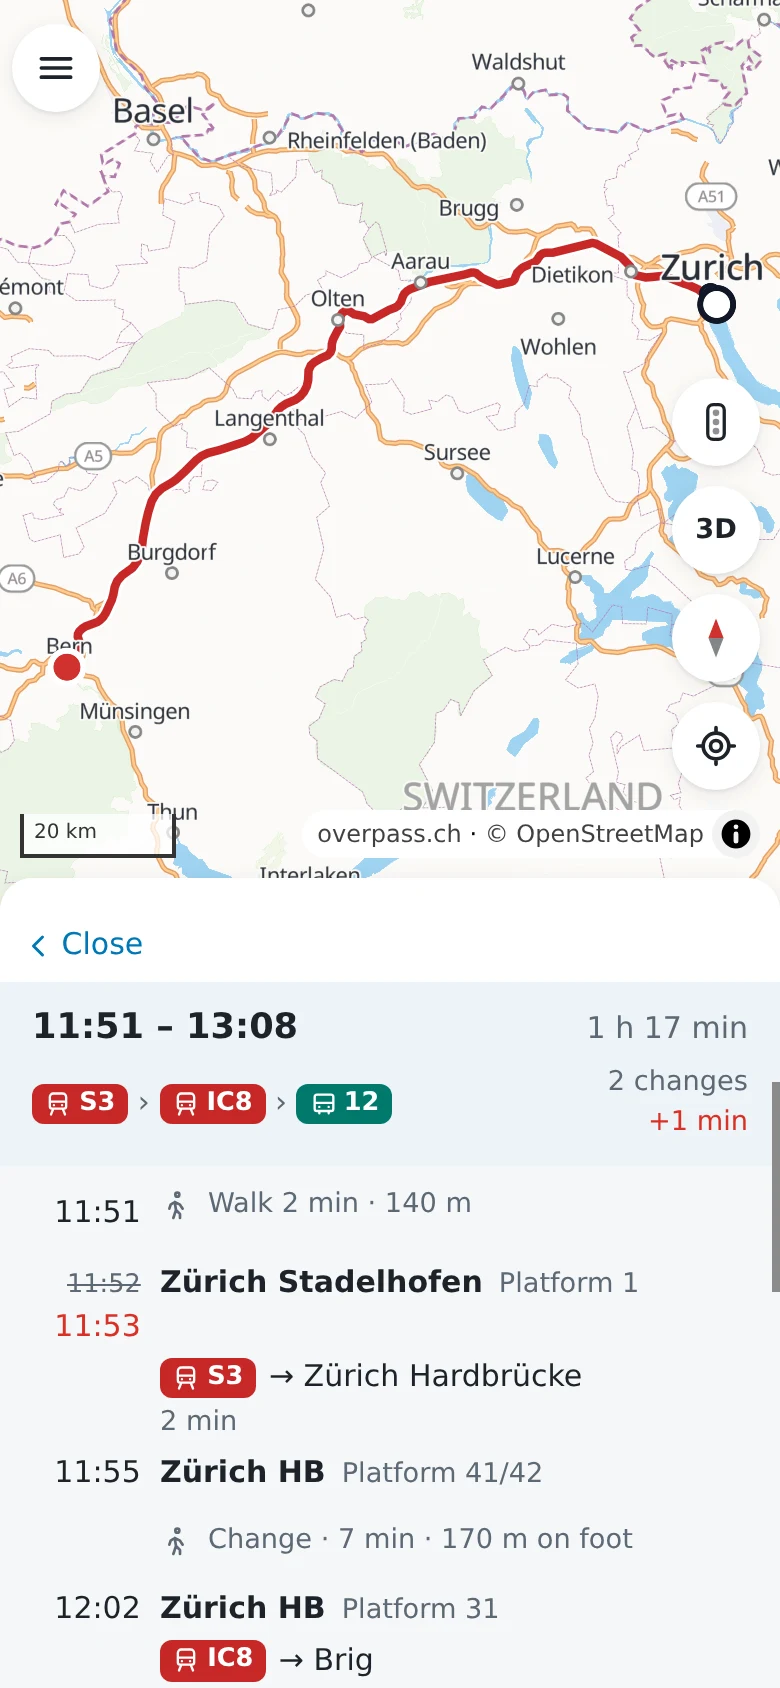
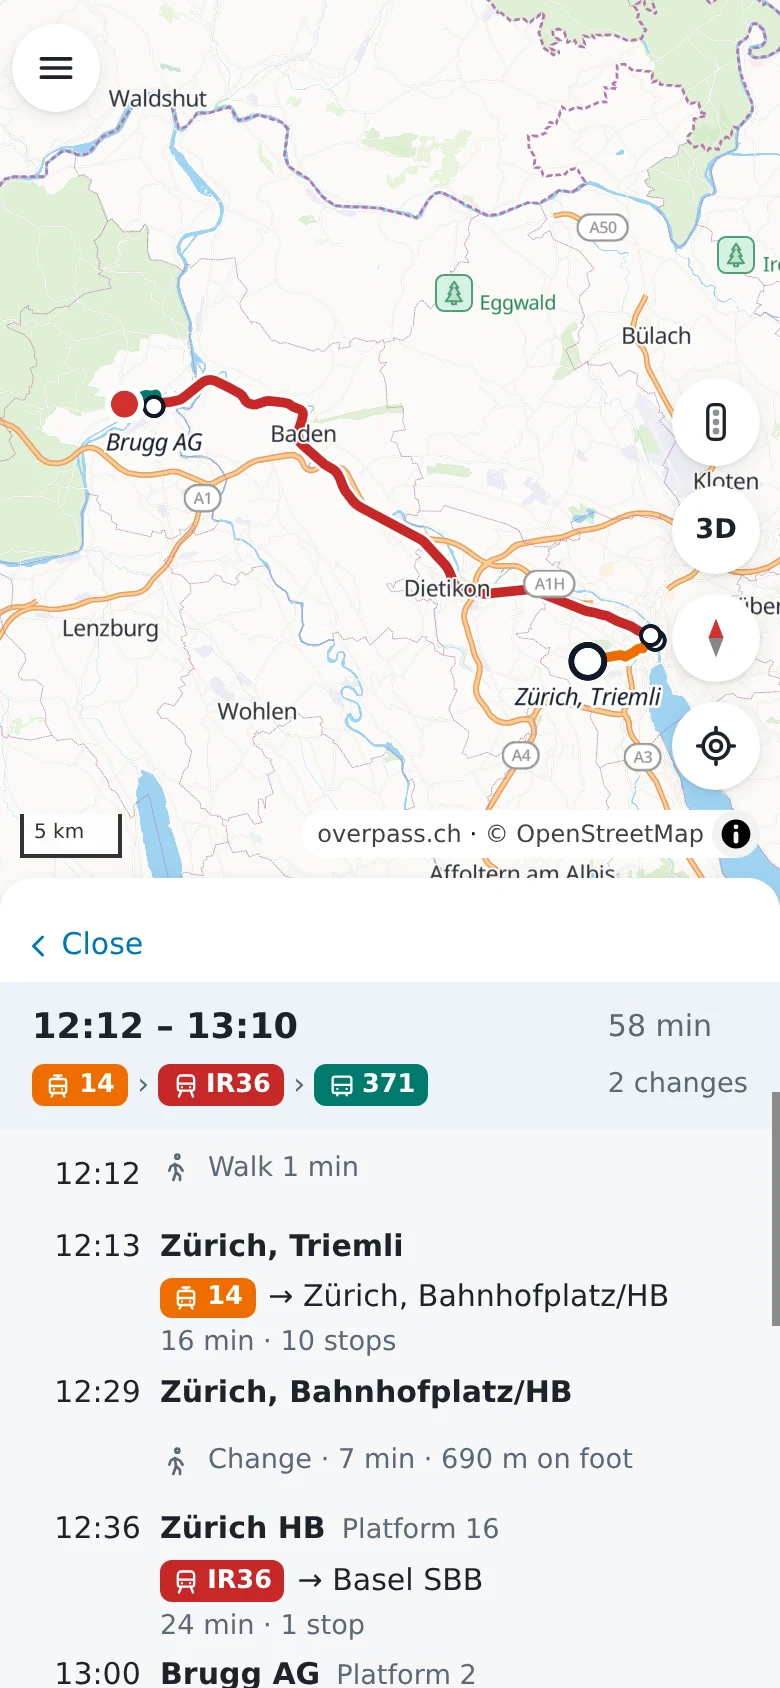
README: the picture of public transport is a journey from Zürich Triemli to Umiken (tram 14, IR36 and bus 371, each in its colour on the map, the connection with its times and platforms)

diff --git a/README.md b/README.md
@@ -20,7 +20,7 @@ navigation, on OpenStreetMap data.**
     <td width="20%"><img src="docs/img/place.webp" width="165" alt="The page of a museum with its opening hours and a photo"></td>
     <td width="20%"><img src="docs/img/route.webp" width="165" alt="A route by bike from Zurich main station to the Uetliberg"></td>
     <td width="20%"><img src="docs/img/navigation.webp" width="165" alt="Navigation by car: the next turn, the speed limit and the car in 3D"></td>
-    <td width="20%"><img src="docs/img/transit.webp" width="165" alt="Public transport from Zurich to Bern on a phone: the way of the trains on the map, and a connection with its lines, times, platforms and a delay"></td>
+    <td width="20%"><img src="docs/img/transit.webp" width="165" alt="Public transport from Zürich Triemli to Umiken on a phone: the tram, the train and the bus on the map, and the connection with its lines, times and platforms"></td>
   </tr>
   <tr>
     <td align="center"><b>Search</b><br>in plain words</td>
